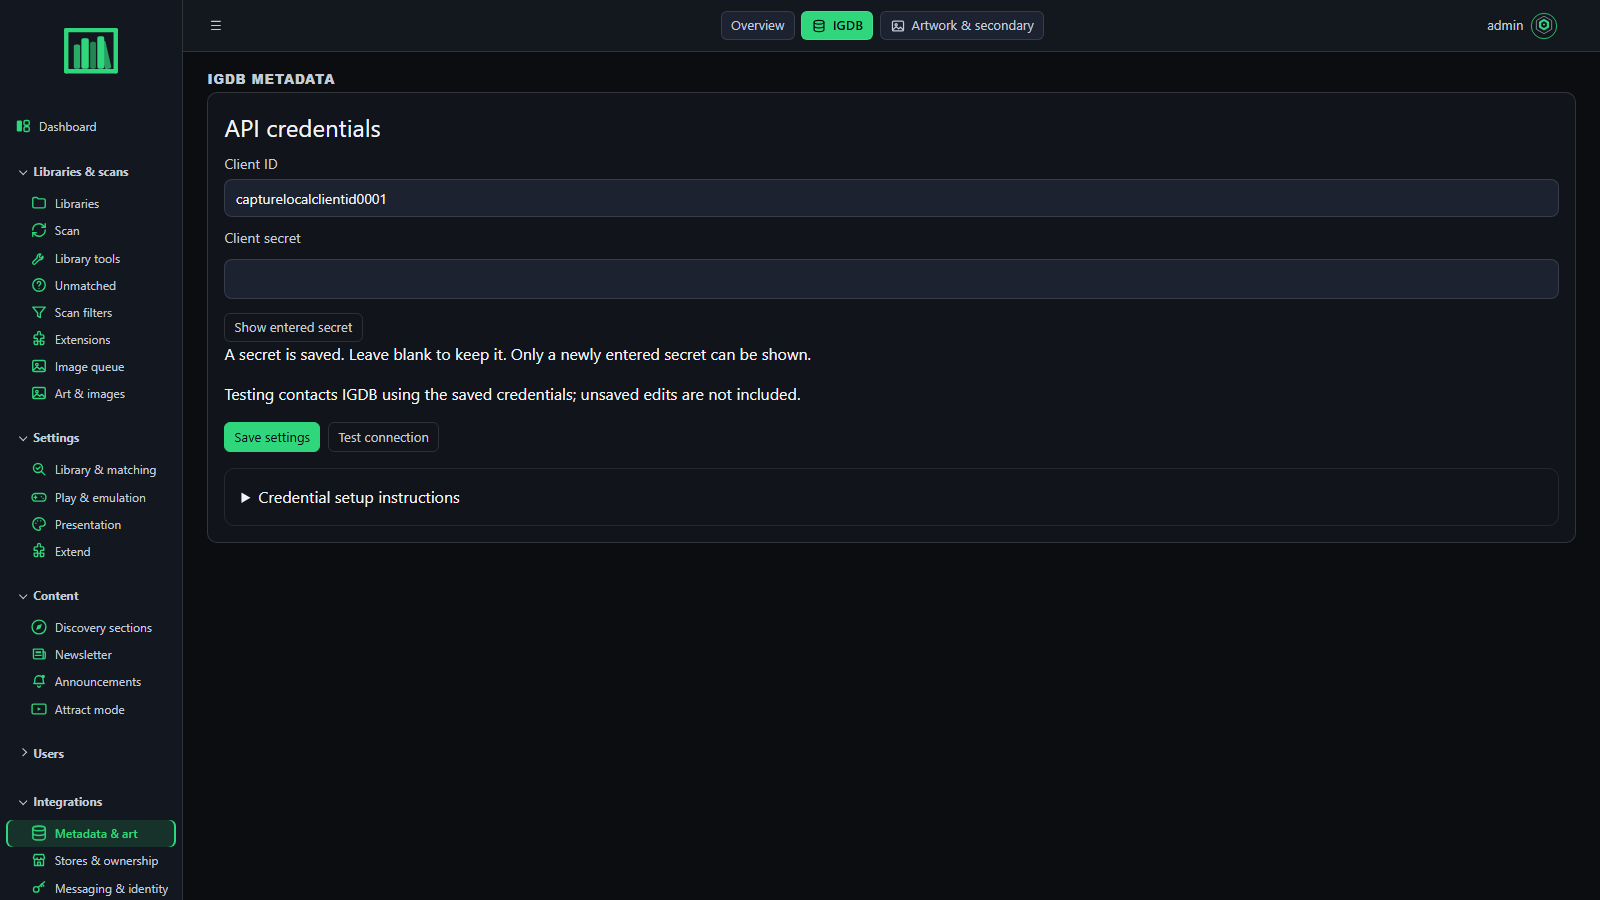
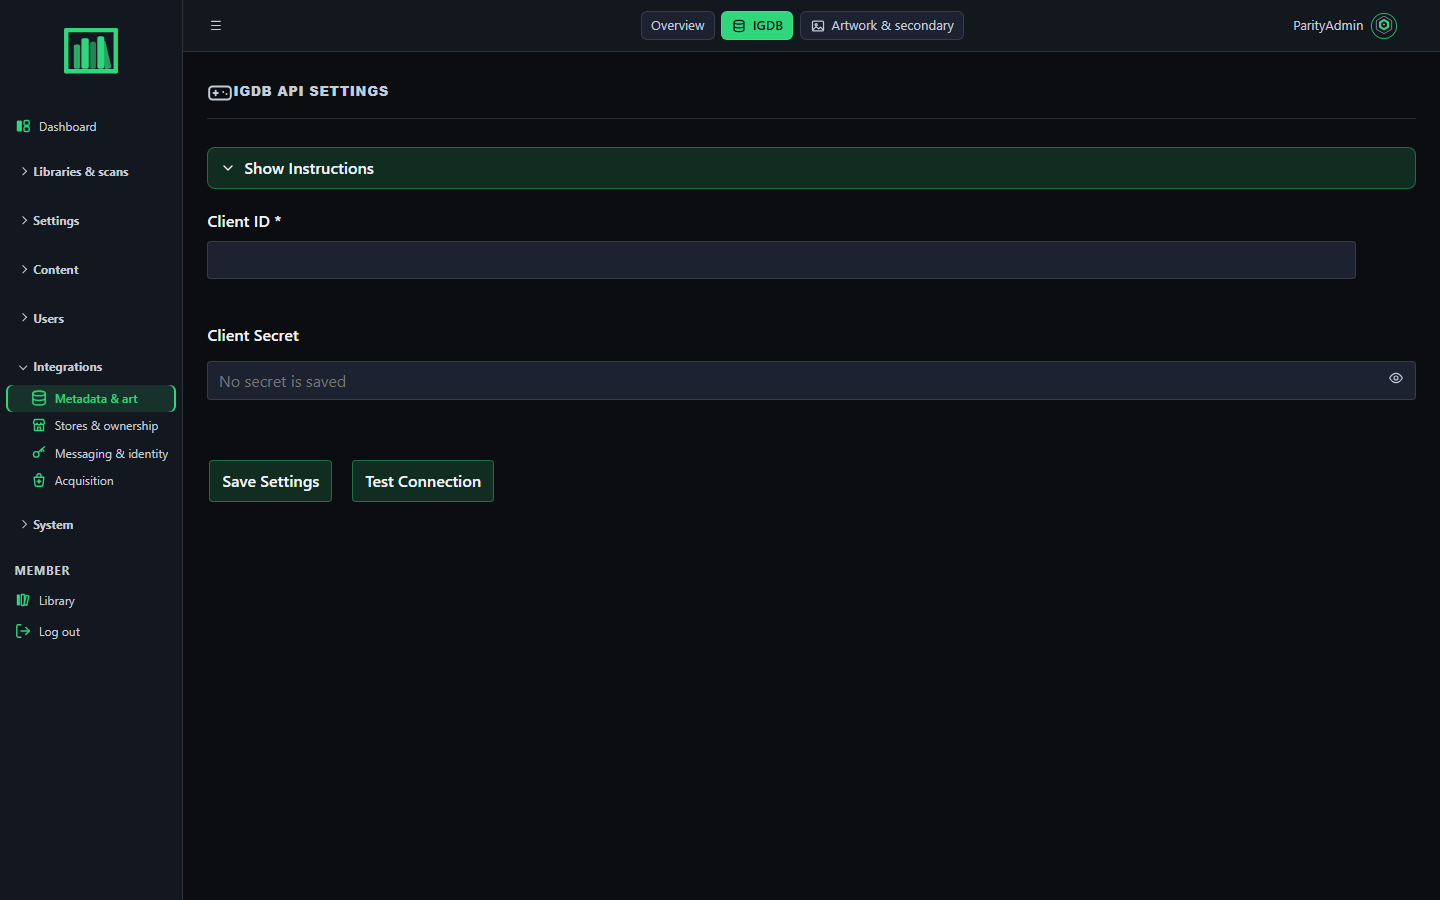
fix(admin): align SMTP action layout with legacy

diff --git a/frontend/admin-app/src/pages/SmtpPage.tsx b/frontend/admin-app/src/pages/SmtpPage.tsx
@@ -139,6 +139,19 @@ export function SmtpPage() {
         <PageStatus loading loadingMessage="Loading SMTP settings…" />
       ) : (
         <form className="od-admin-panel" noValidate onSubmit={save}>
+          <p className="od-admin-hint">
+            Save changes before testing. The test checks the saved connection and authentication
+            without sending email.
+          </p>
+          <div className="od-admin-actions od-smtp-actions">
+            <Button type="submit" variant="primary" disabled={disabled}>
+              {busy ? 'Working…' : 'Save Settings'}
+            </Button>
+            <Button disabled={disabled} onClick={testConnection}>
+              Test Settings
+            </Button>
+          </div>
+          {lastTested ? <p className="od-admin-hint">Last tested: {lastTested}</p> : null}
           <fieldset className="od-admin-panel" disabled={disabled}>
             <legend>Connection settings</legend>
             <label className="od-admin-field">
@@ -218,19 +231,6 @@ export function SmtpPage() {
               />
             </label>
           </fieldset>
-          <p className="od-admin-hint">
-            Save changes before testing. The test checks the saved connection and authentication
-            without sending email.
-          </p>
-          {lastTested ? <p className="od-admin-hint">Last tested: {lastTested}</p> : null}
-          <div className="od-admin-actions">
-            <Button type="submit" variant="primary" disabled={disabled}>
-              {busy ? 'Working…' : 'Save Settings'}
-            </Button>
-            <Button disabled={disabled} onClick={testConnection}>
-              Test Settings
-            </Button>
-          </div>
           <details className="od-admin-panel">
             <summary>SMTP setup help</summary>
             <h3>Option 1: Use your internet service provider’s SMTP server</h3>

diff --git a/frontend/admin-app/src/pages/SmtpPage.test.tsx b/frontend/admin-app/src/pages/SmtpPage.test.tsx
@@ -30,11 +30,16 @@ test('loads safe settings, saves blank password, and tests the saved connection 
   expect(screen.getByLabelText('Username')).toHaveAttribute('id', 'smtp_username')
   expect(screen.getByLabelText('Password')).toHaveAttribute('id', 'smtp_password')
   expect(screen.getByLabelText('Use TLS')).toHaveAttribute('id', 'smtp_use_tls')
-  expect(screen.getByLabelText('Default sender email')).toHaveAttribute(
-    'id',
-    'smtp_default_sender',
-  )
+  expect(screen.getByLabelText('Default sender email')).toHaveAttribute('id', 'smtp_default_sender')
   expect(screen.getByLabelText('Password')).toHaveValue('')
+  const saveActions = screen
+    .getByRole('button', { name: 'Save Settings' })
+    .closest('.od-admin-actions.od-smtp-actions')
+  const settingsFields = screen.getByRole('group', { name: 'Connection settings' })
+  expect(saveActions).not.toBeNull()
+  expect(
+    saveActions!.compareDocumentPosition(settingsFields!) & Node.DOCUMENT_POSITION_FOLLOWING,
+  ).toBeTruthy()
   fireEvent.change(port, { target: { value: '2525' } })
   expect(screen.getByRole('button', { name: 'Test Settings' })).toBeEnabled()
   fireEvent.click(screen.getByRole('button', { name: 'Test Settings' }))

diff --git a/frontend/admin-app/src/styles.css b/frontend/admin-app/src/styles.css
@@ -191,6 +191,26 @@ body.admin-shell.modal-open > .modal-backdrop {
   background: color-mix(in srgb, var(--od-text) 6%, transparent);
 }
 
+.od-admin-actions.od-smtp-actions {
+  flex-direction: column;
+  align-items: stretch;
+  gap: 0.75rem;
+  margin: 0.75rem 0;
+}
+
+.od-admin-actions.od-smtp-actions .od-btn {
+  width: 100%;
+  min-height: 2.875rem;
+  padding: 0.7rem 1rem;
+  font-size: var(--od-font-sm);
+  font-weight: 600;
+  border-radius: var(--od-radius-sm);
+  border-color: color-mix(in srgb, var(--od-accent) 48%, transparent);
+  background: color-mix(in srgb, var(--od-accent) 14%, transparent);
+  color: var(--od-text);
+  justify-content: center;
+}
+
 /* .od-btn came from od-primitives.css all along; this file defined it twice
    (GT-A4) — here, and again further down with a different fill and weight. The
    later block silently won, so this one was dead code that still read as

diff --git a/docs/dev/ui-debt-log.md b/docs/dev/ui-debt-log.md
@@ -34,7 +34,7 @@ Status: `open` | `in_progress` | `done` | `deferred` | `wontfix`
 | UID-149 | Admin SMTP and IGDB | Direct settings page loads returned a bad-request/method response because page GETs shared paths with POST compatibility handlers | **Local fix 2026-10-16:** native admin page GET/HEAD dispatch now runs before the read/API handler; SMTP and IGDB direct-entry regressions pass in the DB-free ASGI suite. **IGDB parity follow-up 2026-10-17:** React saves and tests through the legacy compatibility endpoints, preserves the submitted client ID, validates with the legacy 20-character message, retains a blank saved secret, and lets Test connection report the saved-credential result when edits are pending or credentials are missing. The paired invalid-save replay exposed missing invalid-field visuals; validation now shows an accessible, themed invalid state while retaining the same message and avoiding a save request. Exact-current paired image replay confirms both fields retain legacy min 20/max 50/no-required constraints, the short client ID is invalid, blank secret is valid, and no POST fires. **SMTP parity follow-up 2026-10-17:** React uses the legacy save/test endpoints, accepts disabled-form inputs, and retains blank saved passwords. Exact-current paired replay confirms `SMTP server` required state, disabled-save response/feedback/persistence/port/password behavior, enabled missing-server rejection/error feedback/state preservation, and authenticated missing-CSRF rejection/state preservation match v1.1.8. A connection test to each isolated app’s own closed loopback port also matches the legacy failure envelope and feedback; no email or provider call occurred. **Current r3 visual follow-up 2026-10-21:** screenshot review caught the React SMTP test rendering the same failure both inline and as a toast; current now keeps the toast as the sole failure notification. Exact r3 DOM/screenshot evidence confirms the error toast remains visible and matches v1.1.8 response/persistence behavior; the immediate save-then-test flow may still show the prior save-success toast beside the test error. `SmtpPage.test.tsx` passes 6/6; artifact `.artifacts/parity-v1.1.8/admin-settings-actions-current-r3-toast-probe-20261021.json`. SMTP/IGDB remaining branch gaps and whole-app parity stay open. A synthetic valid IGDB save now retains the newly entered masked secret like v1.1.8, while reload shows only the saved-secret indicator; the current page adds inline success feedback, while the legacy notification was represented as a generic count in the captured UI. Focused React/API suites pass. Paired IGDB Test connection with credentials explicitly cleared returns the same 400 `IGDB settings not configured` contract in both runtimes without provider access. With synthetic saved credentials on internal-only networks, both images also return the same HTTP 500 `IGDB API test failed` envelope when provider access is unavailable. A local HTTP-layer IGDB stub now verifies the provider-success path too: both return the same HTTP 200 success envelope and persist `igdb_last_tested`; no provider traffic occurs. Evidence: `.artifacts/parity-v1.1.8/igdb-success-r3-de312d9a.json`. Broader IGDB validation/auth/UI and whole-app parity remain open. Missing-CSRF POSTs to IGDB save/test and SMTP save return matching 400 HTML denials and preserve saved state. Exact paired v1.1.8/current r3 replay also confirms enabled SMTP with a missing username returns the same HTTP 400 validation and preserves saved state. A port of 65536 with other required fields valid also returns matching HTTP 400 range validation and preserves state; evidence: `.artifacts/parity-v1.1.8/admin-settings-actions-current-r3-smtp-validation-20261021.json`. Missing port and missing saved password also return matching HTTP 400 validations; password rejection preserves the prior settings. Evidence: `.artifacts/parity-v1.1.8/admin-settings-actions-current-r3-smtp-required-fields-20261021.json`. A cloned-DB trigger that rejects one SMTP update returns matching HTTP 500 `Could not save SMTP settings` and rolls back in both images; evidence: `.artifacts/parity-v1.1.8/admin-settings-actions-current-r3-smtp-persist-failure-20261021.json`. A fresh r3 member-session replay also confirms matching redirects for GET and CSRF-bearing POST, with no SMTP settings mutation; evidence: `.artifacts/parity-v1.1.8/admin-settings-actions-current-r3-smtp-auth-20261021.json`. The same replay confirms anonymous GET redirects to login and anonymous POST without CSRF returns matching HTTP 400 HTML, with no state change. Synthetic admin-scope bearer save and read-only-scope denial also match: admin writes succeed, `read:library` returns HTTP 403 without mutation. The same token scopes match on SMTP connection test: admin scope reaches the synthetic loopback server successfully; `read:library` is denied with HTTP 403. No email was sent; evidence: `.artifacts/parity-v1.1.8/admin-settings-actions-current-r3-smtp-auth-20261021.json`. Revoked, expired and wrong-secret bearer tokens also redirect to login on both SMTP save and test routes without changing settings or reaching the stub. A subsequent valid synthetic save and authenticated connection handshake against a synthetic loopback server: both returned HTTP 200, `Connection successful`, and `Authentication successful` with matching response fields; no external service was contacted. Evidence: `.artifacts/parity-v1.1.8/admin-settings-actions-current-r3-smtp-success-20261021.json`. **SMTP duplicate-feedback fix 2026-10-23:** exact paired R600 screenshots showed React duplicated save/test success and validation feedback between PageStatus and toast while v1.1.8 showed one notice. Current now presents a single persistent, accessible PageStatus for each outcome. Paired R599 HTTP/state results matched disabled-save semantics, missing server/username, missing CSRF, connection refusal, and synthetic authenticated connection success; screenshot evidence is `.artifacts/parity-v1.1.8/smtp-settings-actions-r600-current-r599/` and `.artifacts/parity-v1.1.8/smtp-settings-actions-r600-current-r599.json`. Native/legacy tests 34/34 and SmtpPage tests 7/7 pass; current production build passes. Other SMTP validation variants and untested authorization combinations, persistence errors, IGDB server validation, and configured-credential provider-test success remain open; whole-app parity remains open. **R731 2026-10-24:** latest exact-image browser capture revalidated both settings direct routes at HTTP 200 with matching document titles and headings, no page errors, and blocked external requests. The current SMTP H1 was aligned from “SMTP” to “SMTP Settings” while retaining the legacy tab title; SmtpPage tests pass 7/7 and the Admin SPA/pilot builds pass. SMTP/IGDB action, responsive and error branches remain open. Current retains the useful empty-form defaults (port 587 and TLS on; v1.1.8 showed blank/off) as an intentional improvement. Populated capture refreshed at `docs/media/screenshots/admin-smtp-setup-help.png`; paired source `.artifacts/parity-v1.1.8/admin-settings-render-r731capture5-a8a144ff.json`.  **SMTP exact-image correction R1035 (2026-10-25):** the fresh source-matched image confirms the seven restored legacy control IDs at desktop and mobile; both page loads return 200 with no browser errors or failed requests. Current mobile layout remains overflow-free. The legacy JSON settings probe returns 404 because that API is current-only; it does not stand in for form-action parity. Save/test and wider SMTP branch coverage remain open. Evidence: `.artifacts/parity-v1.1.8/smtp-settings-ui-parity-r1035.json`. **IGDB exact-image UI recapture R1036 (2026-10-25):** desktop/mobile loads return 200 without browser errors; current mobile nav stays collapsed without overflow. Current empty required Client ID and explicit “No secret is saved” state replace v1.1.8’s literal `None` and blank secret field; retain the clearer current presentation. API-read and save/test differences remain independently scoped. Evidence: `.artifacts/parity-v1.1.8/igdb-settings-ui-parity-r1036.json`. | Bug scrub | in_progress |
 | UID-143 | Admin Dashboard and Ops status/details | Initial load briefly claimed all systems healthy before the ops summary arrived; Ops detail rows rendered structured values as `[object Object]` | **Done 2026-10-15:** Unraid review showed `All systems healthy` during loading, then `Degraded` with disk warnings. Both status banners now remain neutral through initial loading and first-request failure. Ops detail rows format known path/log records and use a safe fallback for arbitrary objects. Dashboard/Ops regression tests pass; production build and CSS-token lint pass. | Bug scrub / Ops honesty | done |
 | UID-099 | Admin Storage | Failed status was described as helpers off; page owned separate layout and had no retry | **2026-10-10:** shared Page adopted; failed status remains unknown, hides readiness/config claims and disables actions until Retry succeeds. Native UI at375/1440 verifies real gates and controlled unknown/retry/read-only/negative-preview/error states without overflow or page errors. Hardlink Apply acceptance remains separate. | P15 admin migration | done |
-| UID-100 | Admin SMTP | Legacy body needed shared controls and safe API state | **2026-10-10:** shared form/input/action language, secret-safe state, Retry and draft retention; targeted API/component checks and guarded 375/1440 persistence/error captures pass. No live mail transport verification. | P15 admin migration | done |
+| UID-100 | Admin SMTP | Legacy body needed shared controls and safe API state | **2026-10-10:** shared form/input/action language, secret-safe state, Retry and draft retention; targeted API/component checks and guarded 375/1440 persistence/error captures pass. No live mail transport verification. R1206 exact v1.1.8/current SMTP+IGDB settings replay also aligns SMTP action placement and full-width button sizing: labels/field IDs match at desktop and mobile; dedicated capture and component tests cover the restored action position and large stacked controls. IGDB toggle naming parity is captured in the same replay. SMTP component tests 7/7 and CSS-token lint pass; mail transport and broader settings route branches remain untested. Evidence: `.artifacts/parity-v1.1.8/smtp-igdb-ui-r1206-exact.json`. | P15 admin migration | done |
 | UID-101 | Admin Scan / match | Number/select controls lacked shared styling and failed loading lacked Retry | **2026-10-10:** shared inputs, required numbers, loading/save guards and Retry; component/native checks plus guarded375/1440 real policy persistence/refresh and controlled failure states pass. Original settings restored; no scan. | P15 admin migration | done |
 | UID-102 | Admin plugin registry / Settings hub | Plugin failure kept loading visible with no Retry or named table | **2026-10-10:** distinct load/error states, cancellation, Retry and named table region; Settings keyboard/link checks. React24/native28 and guarded375/1440 registry/sort/refresh/tab/failure checks pass. Shared tab CSS now loads in both entries; repeat browser checks and screenshot inspection confirm styled tabs. | P15 admin migration | done |
 | UID-103 | Admin Detail Layout / Emulators | Detail row sizing/names and mutable controls during save; save failures lacked alert | **2026-10-10:** wrapping rows, unique visibility names, shared core inputs, mutation guards and draft-preserving errors. React24/native30 and guarded375/1440 real settings lifecycle/refresh/tabs pass; originals restored. No play, matching or firmware actions. White Bootstrap rows replaced with token CSS; repeat browser checks and screenshot inspection confirm dark rows/styled tabs. | P15 admin migration | done |

diff --git a/docs/assets/readme/CAPTURE.md b/docs/assets/readme/CAPTURE.md
@@ -14,6 +14,8 @@ honestly it is skipped and the run says so.
 
 ## Recipe
 
+**Targeted admin refresh:** 2026-10-26 — `admin-smtp-settings.png` and `admin-igdb-settings.png` were refreshed from exact-image current captures after settings action-label, order, sizing, and accessibility-name parity changes. This was a two-page targeted capture, not a rerun of all 55 surfaces.
+
 **Latest full still capture:** 2026-10-17 — all 55 member/admin surfaces passed
 the health gate against the throwaway `oneirodexcapture` instance. README
 screenshot slots were refreshed, then the hero, section art, feature cards,
